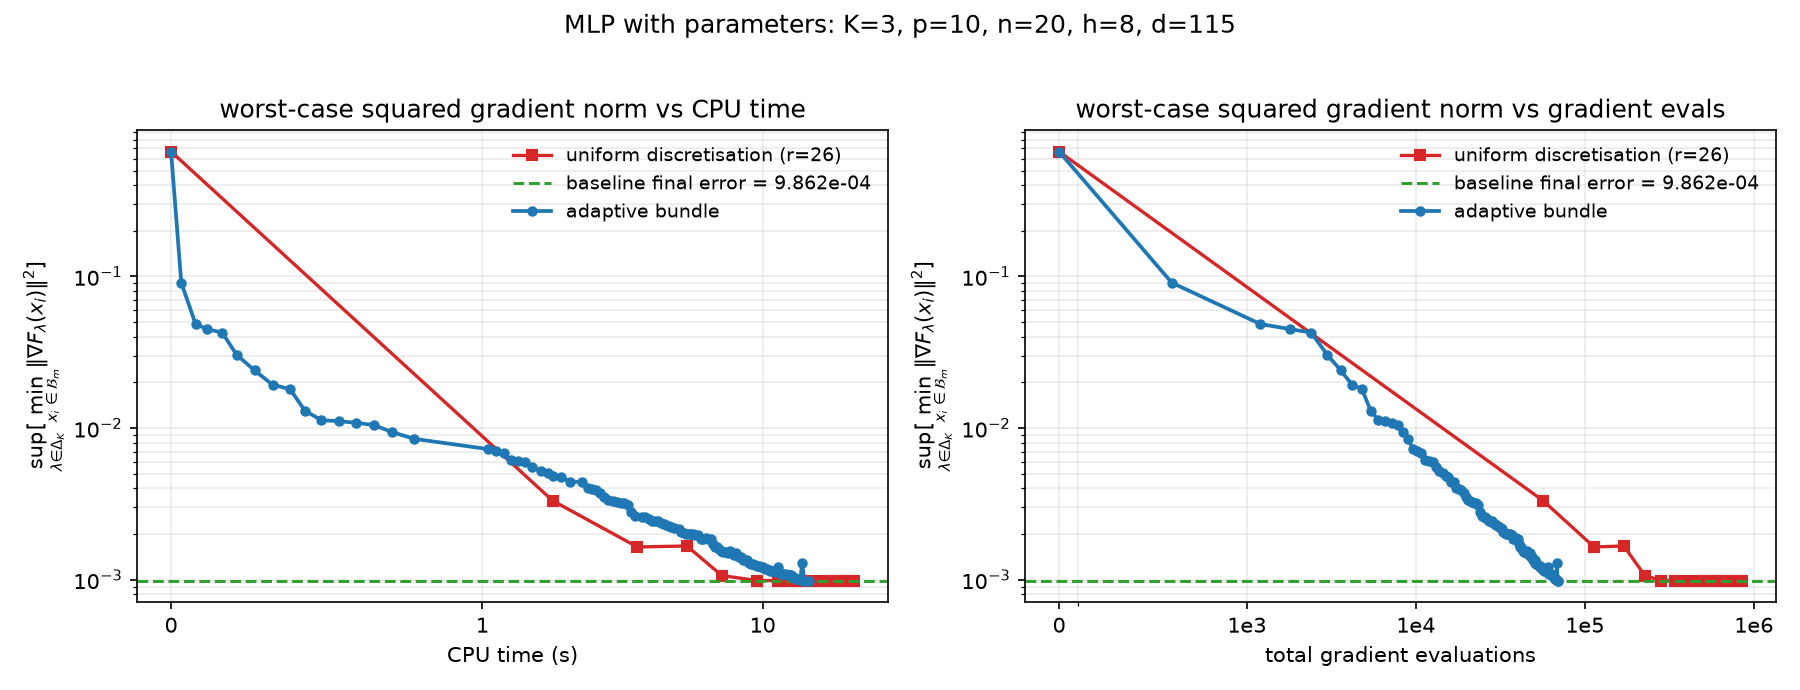
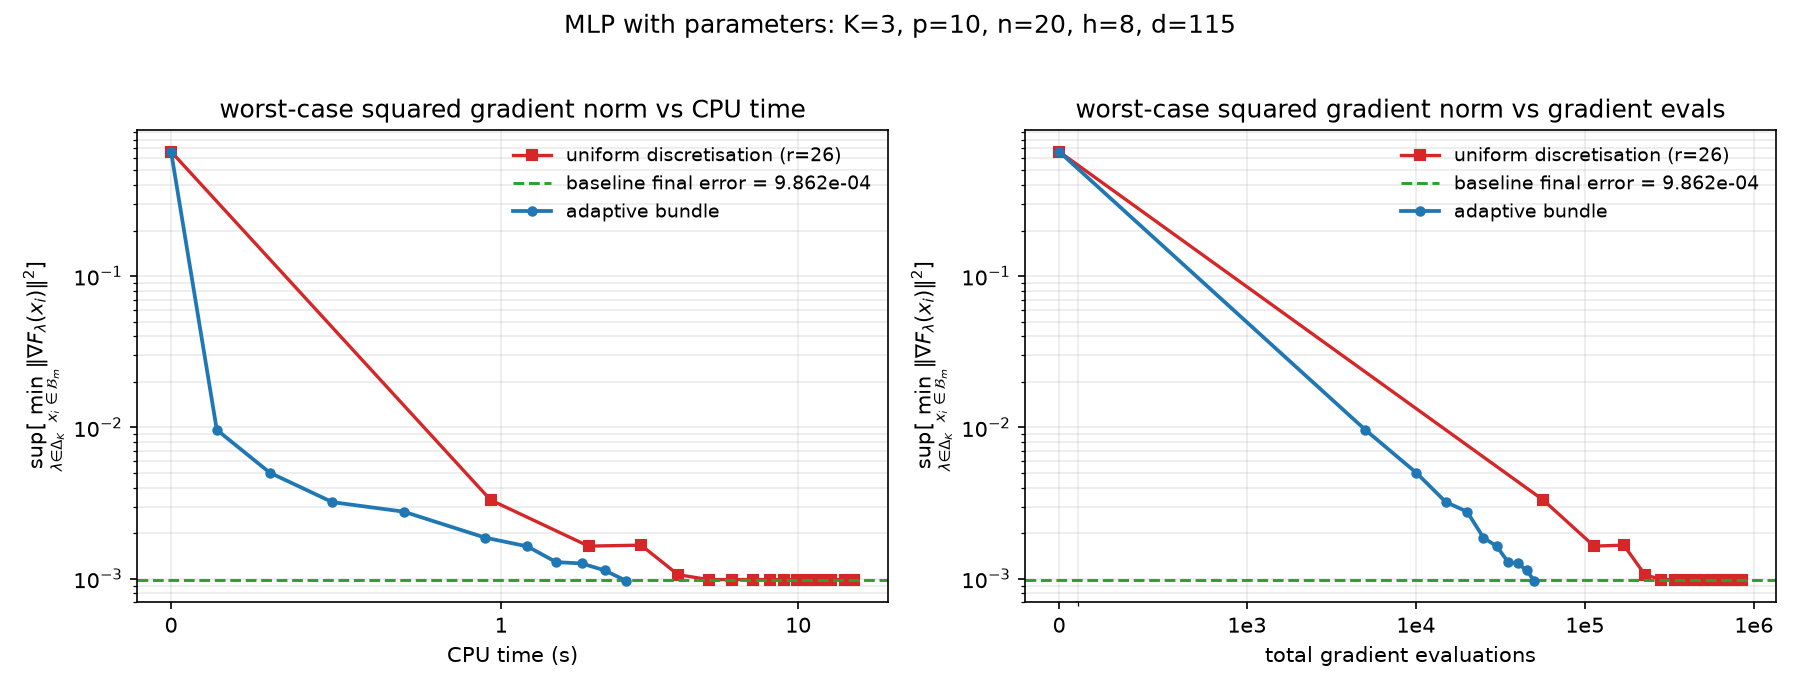
Compare adaptive MLP coverage experiments

diff --git a/algorithm.py b/algorithm.py
@@ -345,6 +345,35 @@ def _maximise_GN(bundle: Bundle, prev_lam: Optional[np.ndarray] = None,
     return float(-best_val), best_lam
 
 
+def _maximise_GN_sampled(
+    bundle: Bundle,
+    prev_lam: Optional[np.ndarray] = None,
+    *,
+    n_random: int = 2048,
+    seed: int = 0,
+) -> Tuple[float, np.ndarray]:
+    """Fast approximate GN maximiser using vectorised simplex samples.
+
+    This is intended as a CPU-cheaper outer-loop selector for exploratory
+    MLP runs.  Metric checkpoints still use ``pc_star``'s stronger evaluator,
+    so the plotted GN* remains comparable.
+    """
+    if bundle.mu is not None:
+        return _maximise_GN(bundle, prev_lam=prev_lam)
+
+    K = bundle.K
+    _, Jmat = _bundle_arrays(bundle)
+    starts = _gn_multistart_set(K, prev_lam, max_starts=2 * K + 2)
+    lam_blocks = [np.asarray(starts, dtype=float)]
+    if n_random and n_random > 0:
+        rng = np.random.RandomState(seed)
+        lam_blocks.append(rng.dirichlet(np.ones(K), size=n_random))
+    lam_s = np.vstack(lam_blocks)
+    vals = _gn_over_samples(Jmat, lam_s)
+    best = int(np.argmax(vals))
+    return float(vals[best]), lam_s[best].copy()
+
+
 # =====================================================================
 #  Adaptive inner loop (BundleUpdate with max_steps)
 # =====================================================================
@@ -524,6 +553,9 @@ def algorithm_adaptive(
     epsilon: Optional[float] = None,
     eval_every_n_grads: Optional[int] = None,
     target_cov: Optional[float] = None,
+    lambda_max_starts: int = 256,
+    lambda_selector: str = "optimize",
+    lambda_random_starts: int = 2048,
     prune_inner: bool = True,
     joint_oracle: Optional[Callable] = None,
     verbose: bool = False,
@@ -589,7 +621,17 @@ def algorithm_adaptive(
     eps_inner = None if epsilon is None else epsilon / 3.0
 
     for outer in range(1, max_outer + 1):
-        pc_val, lam = _maximise_GN(bundle, prev_lam=prev_lam)
+        if lambda_selector == "sample":
+            pc_val, lam = _maximise_GN_sampled(
+                bundle,
+                prev_lam=prev_lam,
+                n_random=lambda_random_starts,
+                seed=outer,
+            )
+        elif lambda_selector == "optimize":
+            pc_val, lam = _maximise_GN(bundle, prev_lam=prev_lam, max_starts=lambda_max_starts)
+        else:
+            raise ValueError("lambda_selector must be 'optimize' or 'sample'.")
         prev_lam = lam
         pc_history.append(pc_val)
         lambda_history.append(lam.copy())

diff --git a/experiments.py b/experiments.py
@@ -77,8 +77,11 @@ def experiment_mlp_gn_coverage(
     K: int = 3, p: int = 10, n: int = 20, h: int = 8, seed: int = 10,
     coarse_resolution: int = 26,
     n_passes: int = 15, steps_per_point_per_pass: int = 50,
-    eval_every_n_grads: int = 600, checkpoint_every: int = 3,
-    max_outer: int = 1000, max_inner: int = 25,
+    eval_every_n_grads: int = 5000, checkpoint_every: int = 3,
+    max_outer: int = 1000, max_inner: Optional[int] = None,
+    lambda_max_starts: int = 256,
+    lambda_selector: str = "sample",
+    lambda_random_starts: int = 512,
     run_baseline: bool = True, run_adaptive: bool = True,
     out_path: str = "mlp.png",
 ) -> Dict:
@@ -87,6 +90,8 @@ def experiment_mlp_gn_coverage(
     print("Coverage experiment — MLP (non-convex), metric = GN*")
     print("=" * 68)
     d = h * p + h + K * h + K
+    if max_inner is None:
+        max_inner = 50 if K == 4 else 25
     objs, grads, L, joint = make_mlp_nonconvex(K=K, p=p, n=n, h=h, seed=seed)
     x0 = np.zeros(d)
     print(f"  K={K}, p={p}, n={n}, h={h}, d={d}  |  L={np.round(L,3)} ")
@@ -112,6 +117,9 @@ def experiment_mlp_gn_coverage(
             mode="gn", max_outer=max_outer, max_inner=max_inner,
             eval_every_n_grads=eval_every_n_grads,
             target_cov=target_cov,
+            lambda_max_starts=lambda_max_starts,
+            lambda_selector=lambda_selector,
+            lambda_random_starts=lambda_random_starts,
             joint_oracle=joint, verbose=verbose)
 
     path = _plot_coverage(